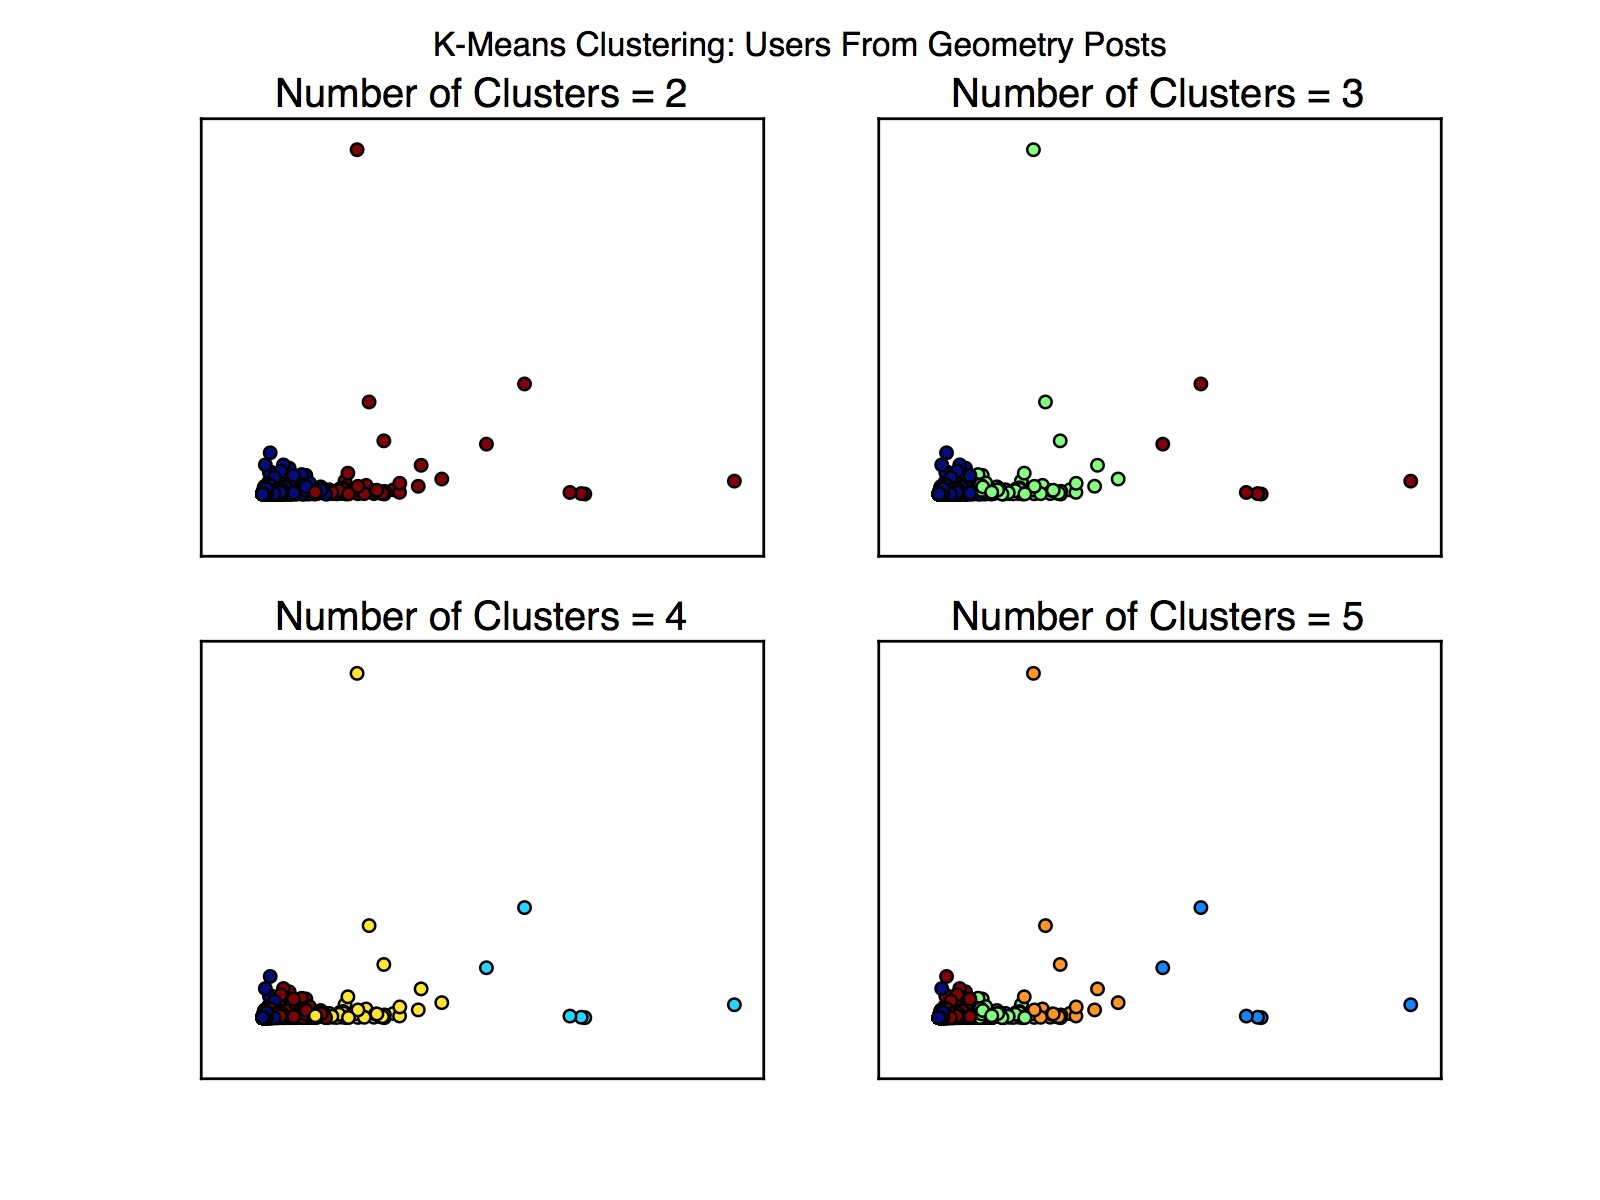
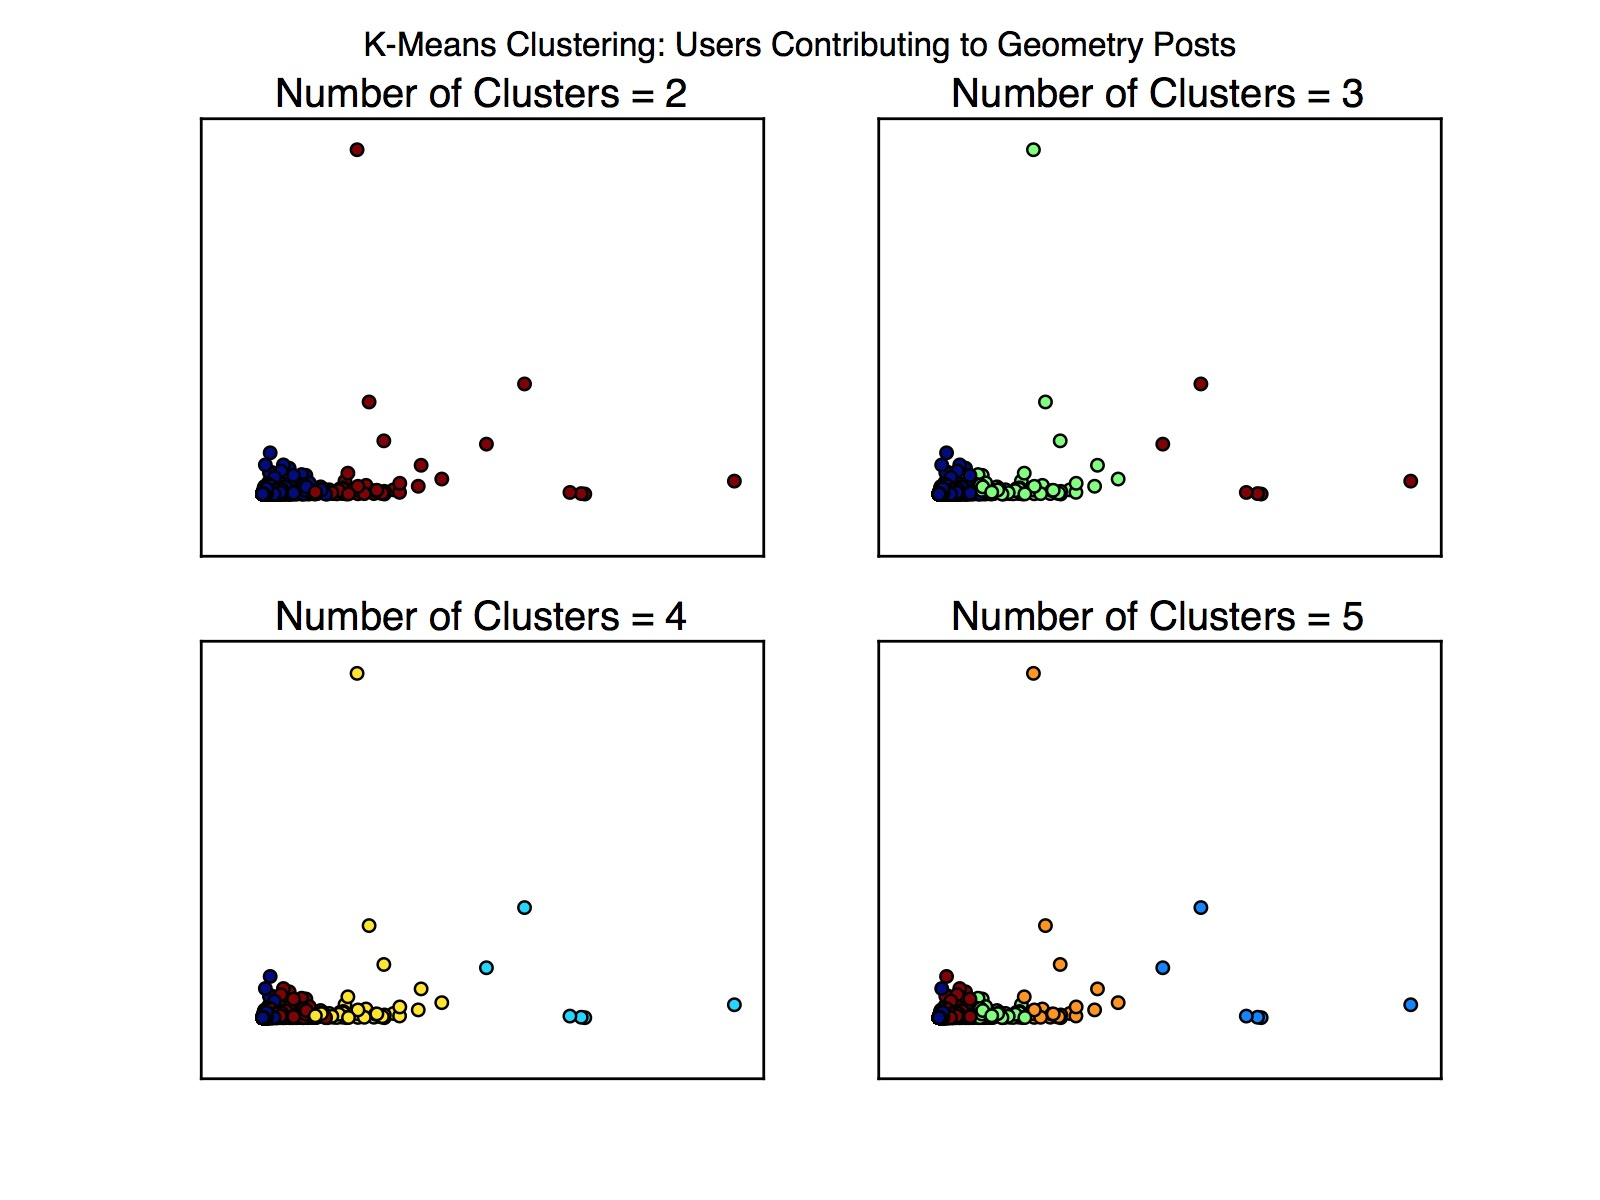
small fix to graph

Changed region(s): [[0.2188, 0.0308, 0.7812, 0.0617]]

diff --git a/kMeans.py b/kMeans.py
@@ -37,7 +37,7 @@ for user_id in users:
 	X.append(f_vec)
 
 fig = plt.figure(1)
-fig.suptitle("K-Means Clustering: Users From Geometry Posts")
+fig.suptitle("K-Means Clustering: Users Contributing to Geometry Posts")
 
 X = np.reshape(X, (len(X),5))
 y_pred = KMeans(n_clusters=2).fit_predict(X)
